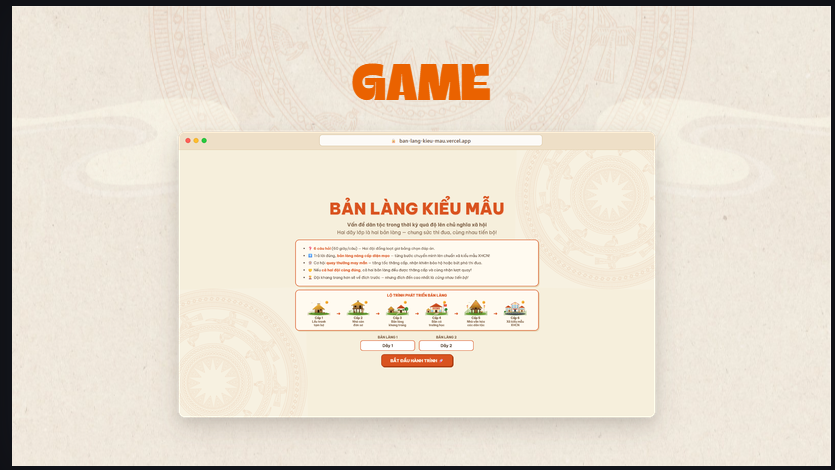
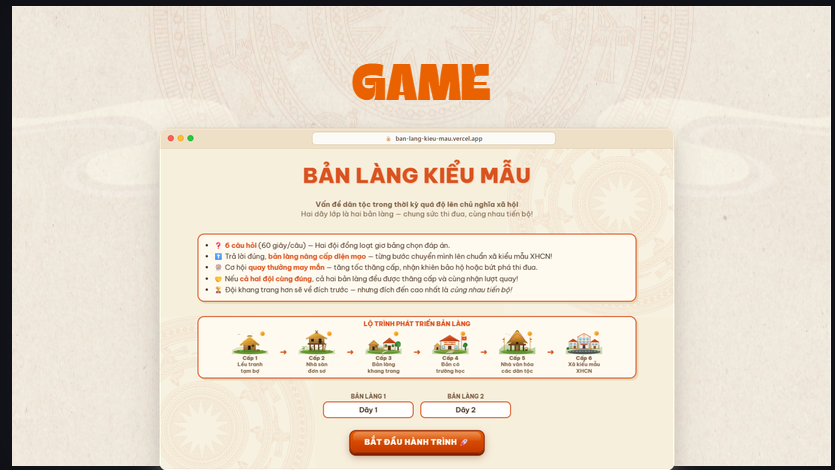
style: tinh chỉnh nút bấm, cân đối bố cục start-screen và cập nhật mockup

diff --git a/index.html b/index.html
@@ -31,26 +31,66 @@ p,li,.rules,.opt,#q-text,#end-msg{text-wrap:pretty;}
 .screen.active{display:block; animation:screenFade .25s ease-out;}
 @keyframes screenFade{from{opacity:0; transform:translateY(6px);} to{opacity:1; transform:translateY(0);}}
 /* ---------- START ---------- */
-#screen-start{text-align:center; padding:20px 24px 26px;}
-#screen-start.active{display:flex; flex-direction:column; justify-content:center; align-items:center; min-height:100vh;}
-#screen-start h1{font-size:clamp(38px,5.8vw,64px); text-shadow:2px 2px 0 #f9d9c4; margin-bottom:2px;}
-.subtitle{font-size:clamp(15px,1.9vw,20px); color:var(--ink-soft); margin:6px auto 14px; max-width:980px; line-height:1.55; text-wrap:balance;}
-.rules{background:var(--card); border:2.5px solid var(--orange); border-radius:16px; padding:16px 28px;
-  max-width:980px; width:100%; margin:0 auto 14px; text-align:left; box-shadow:4px 4px 0 #e8d9b8;}
-.rules li{margin:6px 0 6px 20px; line-height:1.55; font-size:15px; text-wrap:balance;}
+#screen-start{text-align:center; padding:10px 16px 14px; max-width:1050px; margin:0 auto;}
+#screen-start.active{display:flex; flex-direction:column; justify-content:space-evenly; align-items:center; min-height:100vh;}
+#screen-start h1{font-size:clamp(32px,4vw,44px); text-shadow:2px 2px 0 #f9d9c4; margin:0; line-height:1.15;}
+.subtitle{font-size:clamp(14px,1.4vw,17px); color:var(--ink-soft); margin:4px auto; max-width:920px; line-height:1.35; text-wrap:balance;}
+.rules{background:var(--card); border:2.5px solid var(--orange); border-radius:14px; padding:10px 18px;
+  max-width:920px; width:98%; margin:4px auto; text-align:left; box-shadow:4px 4px 0 #e8d9b8;}
+.rules li{margin:3px 0 3px 14px; line-height:1.4; font-size:14.5px; text-wrap:balance;}
 .rules b{color:var(--orange);}
-.team-inputs{display:flex; gap:16px; justify-content:center; flex-wrap:wrap; margin:4px 0 14px;}
-.team-inputs label{font-weight:800; text-transform:uppercase; font-size:13px; color:var(--ink-soft);}
-.team-inputs input{display:block; margin-top:5px; padding:9px 16px; font-size:16px; font-weight:700;
-  font-family:inherit; border:2.5px solid var(--orange); border-radius:10px; background:#fff; color:var(--ink); width:220px; text-align:center;}
-.btn{background:var(--orange); color:#fff8ec; border:2.5px solid var(--orange-d); border-radius:12px;
-  padding:12px 34px; font-family:inherit; font-weight:800; font-size:16.5px; text-transform:uppercase;
-  cursor:pointer; box-shadow:3px 3px 0 var(--orange-d); transition:transform .12s;}
-.btn:hover{transform:translateY(-2px) scale(1.02);}
-.btn:active{transform:translateY(2px); box-shadow:1px 1px 0 var(--orange-d);}
-.btn.small{font-size:13px; padding:9px 16px;}
-.btn.ghost{background:var(--card); color:var(--orange); box-shadow:4px 4px 0 #e0cfa4;}
-.btn:disabled{opacity:.45; cursor:not-allowed; transform:none;}
+.team-inputs{display:flex; gap:14px; justify-content:center; flex-wrap:wrap; margin:4px 0;}
+.team-inputs label{font-weight:800; text-transform:uppercase; font-size:12px; color:var(--ink-soft);}
+.team-inputs input{display:block; margin-top:3px; padding:6px 12px; font-size:14.5px; font-weight:700;
+  font-family:inherit; border:2.5px solid var(--orange); border-radius:10px; background:#fff; color:var(--ink); width:190px; text-align:center;}
+.btn{
+  display:inline-flex; align-items:center; justify-content:center; gap:8px;
+  width:auto; max-width:300px; align-self:center; margin:4px auto;
+  background:var(--orange); color:#fff8ec; border:3px solid var(--orange-d); border-radius:14px;
+  padding:12px 28px; font-family:inherit; font-weight:800; font-size:16px;
+  text-transform:uppercase; cursor:pointer;
+  box-shadow:4px 4px 0 var(--orange-d);
+  transition:transform .16s cubic-bezier(.34,1.56,.64,1), box-shadow .16s ease, filter .16s ease;
+  user-select:none; -webkit-user-select:none;
+}
+.btn:hover{
+  transform:translateY(-3px) scale(1.02);
+  box-shadow:6px 7px 0 var(--orange-d), 0 8px 16px rgba(168,60,18,.25);
+  filter:brightness(1.05);
+}
+.btn:active{
+  transform:translateY(3px) scale(.98);
+  box-shadow:1px 1px 0 var(--orange-d);
+  filter:brightness(.96);
+  transition-duration:.04s;
+}
+.btn.small{
+  font-size:13px; padding:8px 16px; border-radius:10px; border-width:2.5px;
+  box-shadow:3px 3px 0 var(--orange-d);
+}
+.btn.small:hover{
+  transform:translateY(-2px) scale(1.02);
+  box-shadow:4px 5px 0 var(--orange-d), 0 6px 12px rgba(168,60,18,.2);
+}
+.btn.small:active{
+  transform:translateY(2px) scale(.98);
+  box-shadow:1px 1px 0 var(--orange-d);
+  transition-duration:.04s;
+}
+.btn.ghost{
+  background:var(--card); color:var(--orange); border-color:var(--orange);
+  box-shadow:4px 4px 0 #e0cfa4;
+}
+.btn.ghost:hover{
+  box-shadow:6px 7px 0 #d5c190, 0 8px 16px rgba(120,85,40,.18);
+  filter:brightness(1.02);
+}
+.btn.ghost:active{
+  transform:translateY(3px) scale(.98);
+  box-shadow:1px 1px 0 #d5c190;
+  transition-duration:.04s;
+}
+.btn:disabled{opacity:.45; cursor:not-allowed; transform:none; box-shadow:none;}
 /* ---------- GAME ---------- */
 #game-head{text-align:center; margin-bottom:4px;}
 #game-head h1{font-size:clamp(20px,2.2vw,28px); margin:0;}
@@ -179,14 +219,14 @@ p,li,.rules,.opt,#q-text,#end-msg{text-wrap:pretty;}
 #end-detail{text-align:center; font-size:17px; line-height:1.8; margin:16px 0;}
 #end-msg{background:var(--card); border:3px solid var(--gold); border-radius:16px; padding:18px; font-size:16px; line-height:1.8; text-align:center; margin:18px 0;}
 /* dải lộ trình nâng cấp ở màn hình bắt đầu */
-#tier-preview{max-width:980px; width:100%; margin:0 auto 14px; background:var(--card); border:2.5px solid var(--orange); border-radius:16px; padding:12px 16px; box-shadow:4px 4px 0 #e8d9b8;}
-.tp-title{font-weight:900; text-transform:uppercase; color:var(--orange); margin-bottom:8px; font-size:14px; text-wrap:balance;}
-.tp-row{display:flex; align-items:center; justify-content:center; gap:6px; flex-wrap:nowrap;}
+#tier-preview{max-width:920px; width:98%; margin:4px auto; background:var(--card); border:2.5px solid var(--orange); border-radius:14px; padding:6px 12px; box-shadow:4px 4px 0 #e8d9b8;}
+.tp-title{font-weight:900; text-transform:uppercase; color:var(--orange); margin-bottom:4px; font-size:13px; text-wrap:balance;}
+.tp-row{display:flex; align-items:center; justify-content:center; gap:5px; flex-wrap:nowrap;}
 @media(max-width:860px){.tp-row{flex-wrap:wrap; gap:8px;}}
-.tp-card{width:130px; text-align:center; flex:0 1 auto;}
-.tp-card svg{width:100%; max-width:92px; height:auto; margin:0 auto; display:block;}
-.tp-name{font-size:11.5px; font-weight:700; margin-top:4px; line-height:1.3; min-height:30px; color:var(--ink-soft); text-wrap:balance; word-break:keep-all;}
-.tp-arrow{font-size:16px; color:var(--orange); font-weight:900; flex:none;}
+.tp-card{width:115px; text-align:center; flex:0 1 auto;}
+.tp-card svg{width:100%; max-width:76px; height:auto; margin:0 auto; display:block;}
+.tp-name{font-size:11px; font-weight:700; margin-top:2px; line-height:1.25; min-height:24px; color:var(--ink-soft); text-wrap:balance; word-break:keep-all;}
+.tp-arrow{font-size:15px; color:var(--orange); font-weight:900; flex:none;}
 .team .build-anim{font-size:60px;}
 .team .build-bar{max-width:230px; margin:8px auto 2px;}
 /* toast */

diff --git a/render_mockup.html b/render_mockup.html
@@ -25,8 +25,8 @@
   /* --- SCREEN LID --- */
   .lid {
     position: relative;
-    width: 1220px;
-    height: 708px;
+    width: 1100px;
+    height: 700px;
     background: #18191b;
     border-radius: 18px 18px 3px 3px;
     padding: 10px 10px 14px 10px;
@@ -42,7 +42,7 @@
   /* Display bezel & screen */
   .screen-frame {
     position: relative;
-    width: 1200px;
+    width: 1080px;
     height: 675px;
     border-radius: 10px;
     overflow: hidden;
@@ -116,8 +116,8 @@
   /* --- BASE / CHASSIS --- */
   .base {
     position: relative;
-    width: 1300px;
-    height: 20px;
+    width: 1180px;
+    height: 19px;
     background: linear-gradient(180deg, #e4e7eb 0%, #bcc1c8 45%, #8c929a 85%, #666a72 100%);
     border-radius: 2px 2px 14px 14px;
     margin-top: -4px;
@@ -199,7 +199,7 @@
       <div class="lens"></div>
     </div>
     <div class="screen-frame">
-      <img src="screen_1080p.png" alt="Game Screen">
+      <img src="screen_sharp.png" alt="Game Screen">
       <div class="glass-glare"></div>
     </div>
   </div>

diff --git a/render_browser_mockup.html b/render_browser_mockup.html
@@ -16,7 +16,7 @@
 
   .window {
     position: relative;
-    width: 1240px;
+    width: 1100px;
     background: #fffdfa;
     border-radius: 18px;
     overflow: hidden;
@@ -27,7 +27,7 @@
   }
 
   .titlebar {
-    height: 48px;
+    height: 44px;
     background: #eedfc7;
     border-bottom: 1.5px solid #dfcca9;
     display: flex;
@@ -51,9 +51,9 @@
 
   .address-bar {
     flex: 1;
-    max-width: 580px;
+    max-width: 520px;
     margin: 0 auto;
-    height: 30px;
+    height: 28px;
     background: rgba(255,255,255,0.85);
     border: 1px solid #d5c09a;
     border-radius: 8px;
@@ -71,7 +71,7 @@
 
   .content-frame {
     width: 100%;
-    height: 697px; /* 1240 / (1920/1080) */
+    height: 688px; /* 1100 / (1080/675) */
     background: #f6efdc;
   }
   .content-frame img {
@@ -97,7 +97,7 @@
     </div>
   </div>
   <div class="content-frame">
-    <img src="screen_1080p.png" alt="Game Start">
+    <img src="screen_sharp.png" alt="Game Start">
   </div>
 </div>
 
